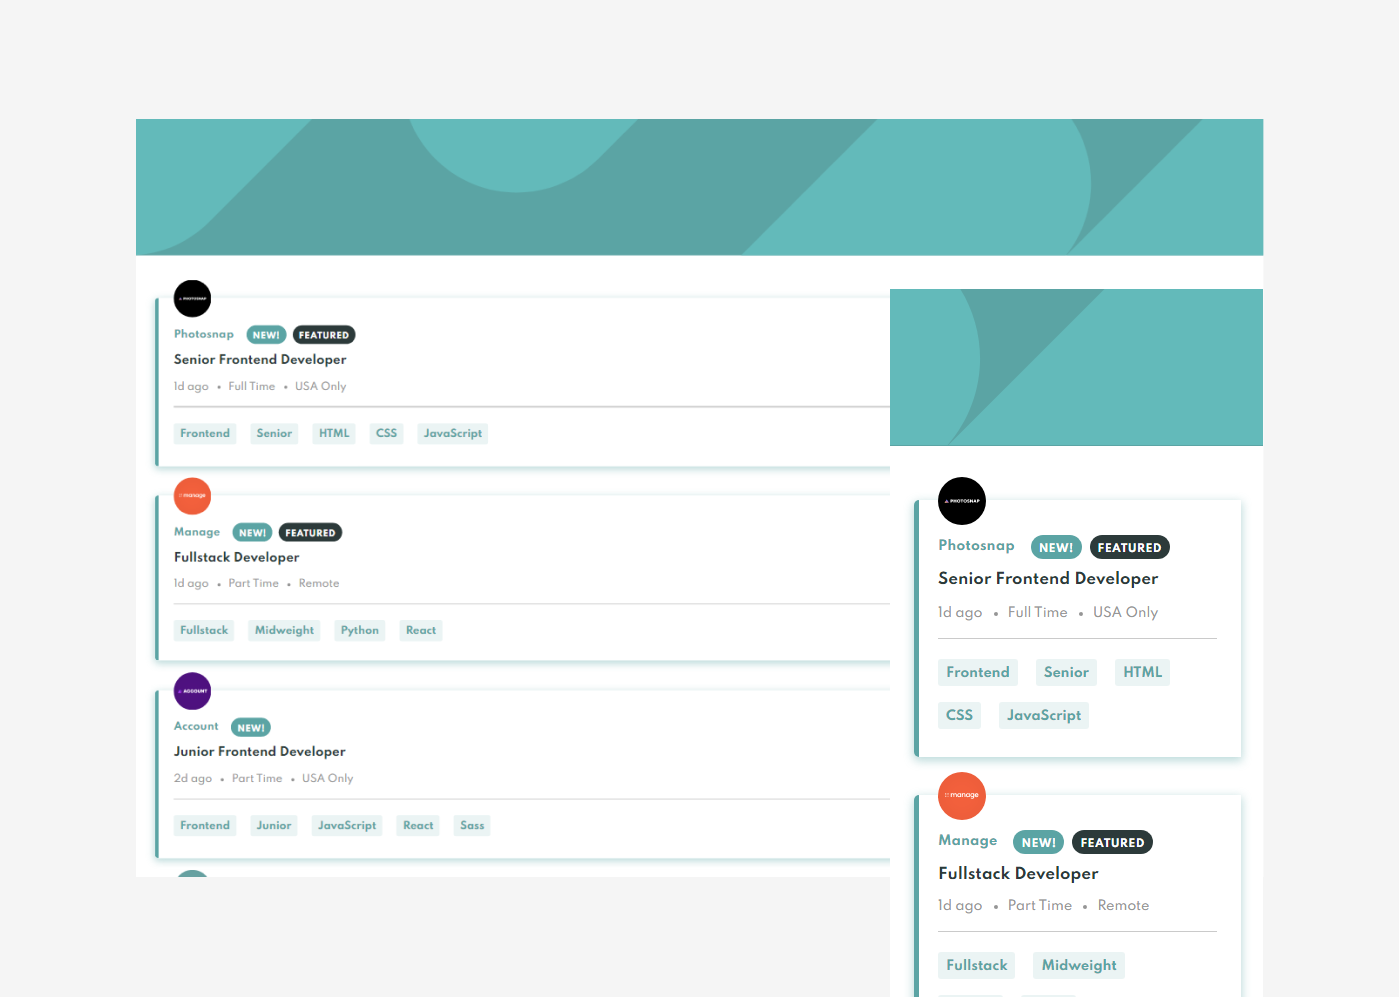
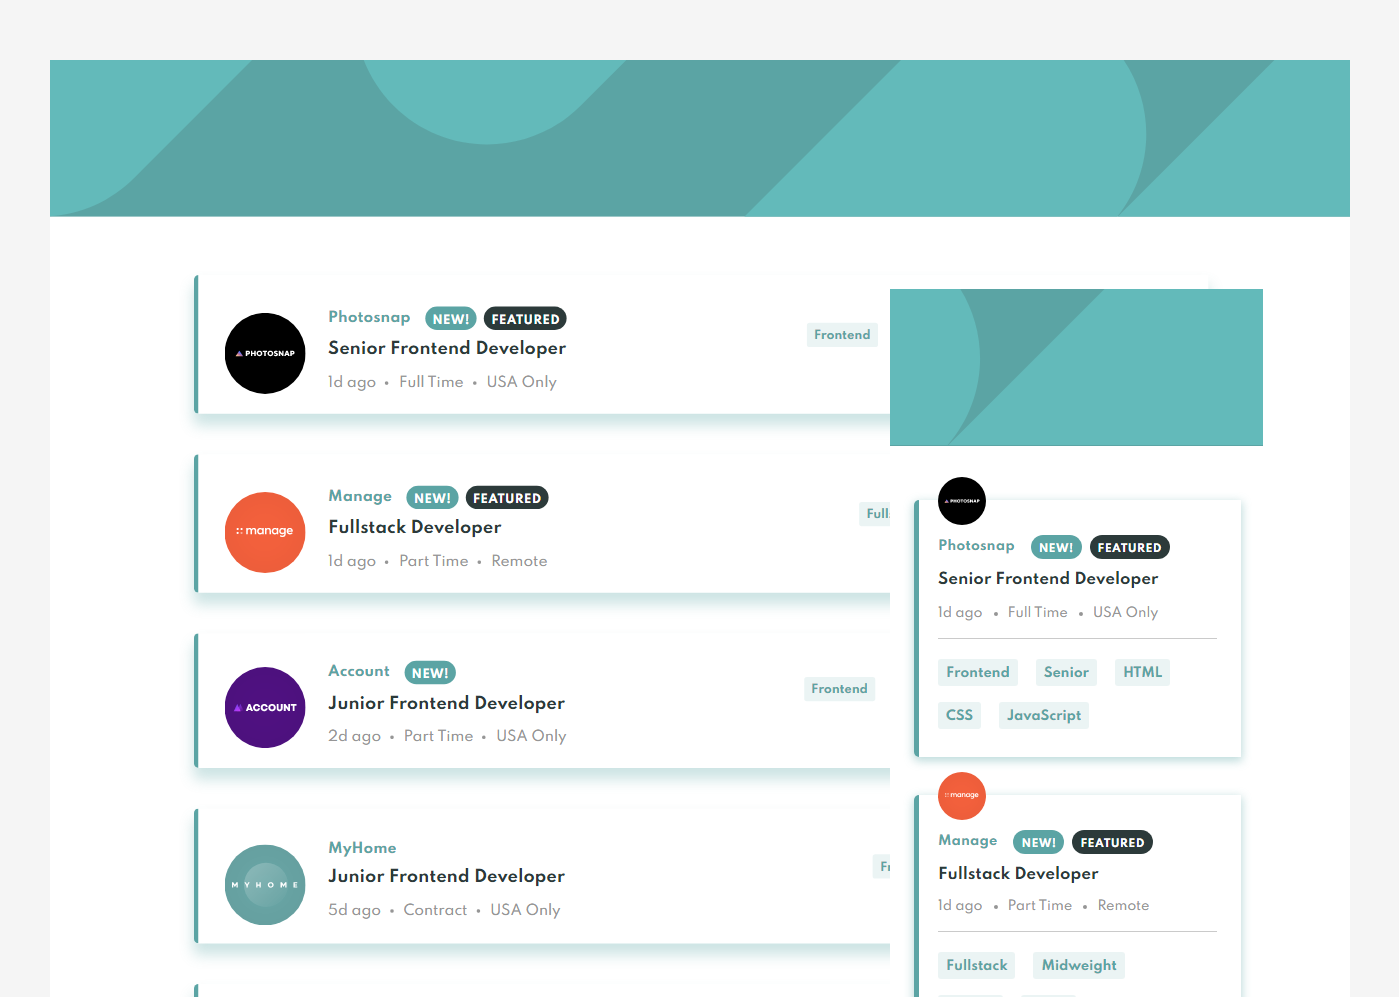
Update desktop style

Changed region(s): [[0.0307, 0.0622, 0.9836, 0.9639], [0.584, 0.3109, 0.6147, 0.342], [0.1229, 0.995, 0.1537, 1.0]]

diff --git a/css/index.css b/css/index.css
@@ -57,3 +57,40 @@ footer {
         position: static;
     }
 }
+@media all and (min-width: 1440px) {
+    :root {
+        font-size: 18px;
+    }
+    .main-container {
+        padding: 0 160px;
+    }
+    .job-container {
+        flex-direction: row;
+        box-shadow: 0px 12px 15px 1px hsl(180, 29%, 50%, 0.3);
+    }
+    .details-container {
+        display: flex;
+    }
+    .img-box {
+        position: static;
+        margin-right: 25px;
+        margin-left: 10px;
+    }
+    .logo {
+        width: 90px;
+    }
+    .position {
+        font-weight: bold;
+    }
+    .job-hr {
+        display: none;
+    }
+    .tag-box {
+        align-items: center;
+        padding: 0px 48px 0 19px;
+        margin-left: auto;
+    }
+    .tag-box span {
+        font-size: 0.7rem;
+    }
+}

diff --git a/index.html b/index.html
@@ -8,8 +8,8 @@
   <link rel="preconnect" href="https://fonts.googleapis.com">
   <link rel="preconnect" href="https://fonts.gstatic.com" crossorigin>
   <link href="https://fonts.googleapis.com/css2?family=Spartan:wght@500;700&display=swap" rel="stylesheet">
-  <link rel="stylesheet" href="css/index.css">
   <link rel="stylesheet" href="css/component_style.css">
+  <link rel="stylesheet" href="css/index.css">
   <script src="https://ajax.googleapis.com/ajax/libs/jquery/3.6.0/jquery.min.js"></script>
   <script src="js/filter.js"></script>
   <script src="js/components.js"></script>
@@ -122,7 +122,7 @@
         <button class="btn-reset">Clear</button>
       </div>
     </div>
-  
+
   </main>
   <!-- Footer -->
   <footer>

diff --git a/js/components.js b/js/components.js
@@ -80,7 +80,7 @@ $(document).ready(() => {
             }
         }
         // Fetch JSON file
-        $.getJSON("../data.json", (result, status) => {
+        $.getJSON("./data.json", (result, status) => {
             if (status === "success") {
                 // Define element builder
                 const createContainer = new ElementBuilder('div');
